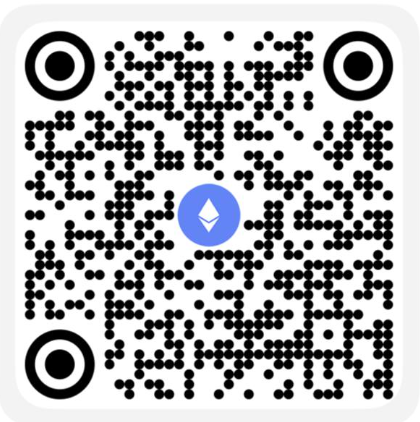
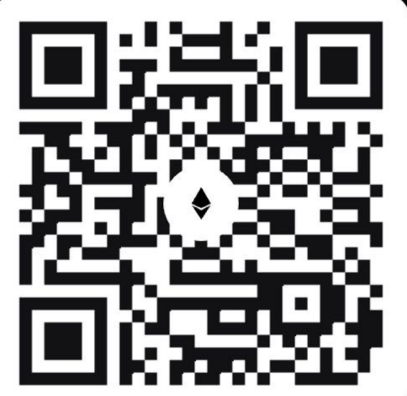
Fix deposit QR rendering and update wallet QR images
Made-with: Cursor

diff --git a/pages/assets.js b/pages/assets.js
@@ -4,11 +4,7 @@ import { useRouter } from 'next/router';
 import Header from '../components/Header';
 import { supabase } from '../lib/supabase';
 import toast from 'react-hot-toast';
-import dynamic from 'next/dynamic';
-
-const QRCode = dynamic(() => import('qrcode.react').then(mod => mod.default), {
-  ssr: false,
-});
+import { QRCodeSVG } from 'qrcode.react';
 
 const cardStyle = {
   borderRadius: '16px',
@@ -943,13 +939,12 @@ function AssetsPage() {
                     }}>
                       {getPaymentInfo() && (
                         <div style={{ display: 'flex', alignItems: 'center', justifyContent: 'center' }}>
-                          <QRCode
+                          <QRCodeSVG
                             value={getPaymentInfo().address}
                             size={200}
                             bgColor="transparent"
                             fgColor="#ffffff"
                             includeMargin={false}
-                            renderAs="svg"
                           />
                         </div>
                       )}
